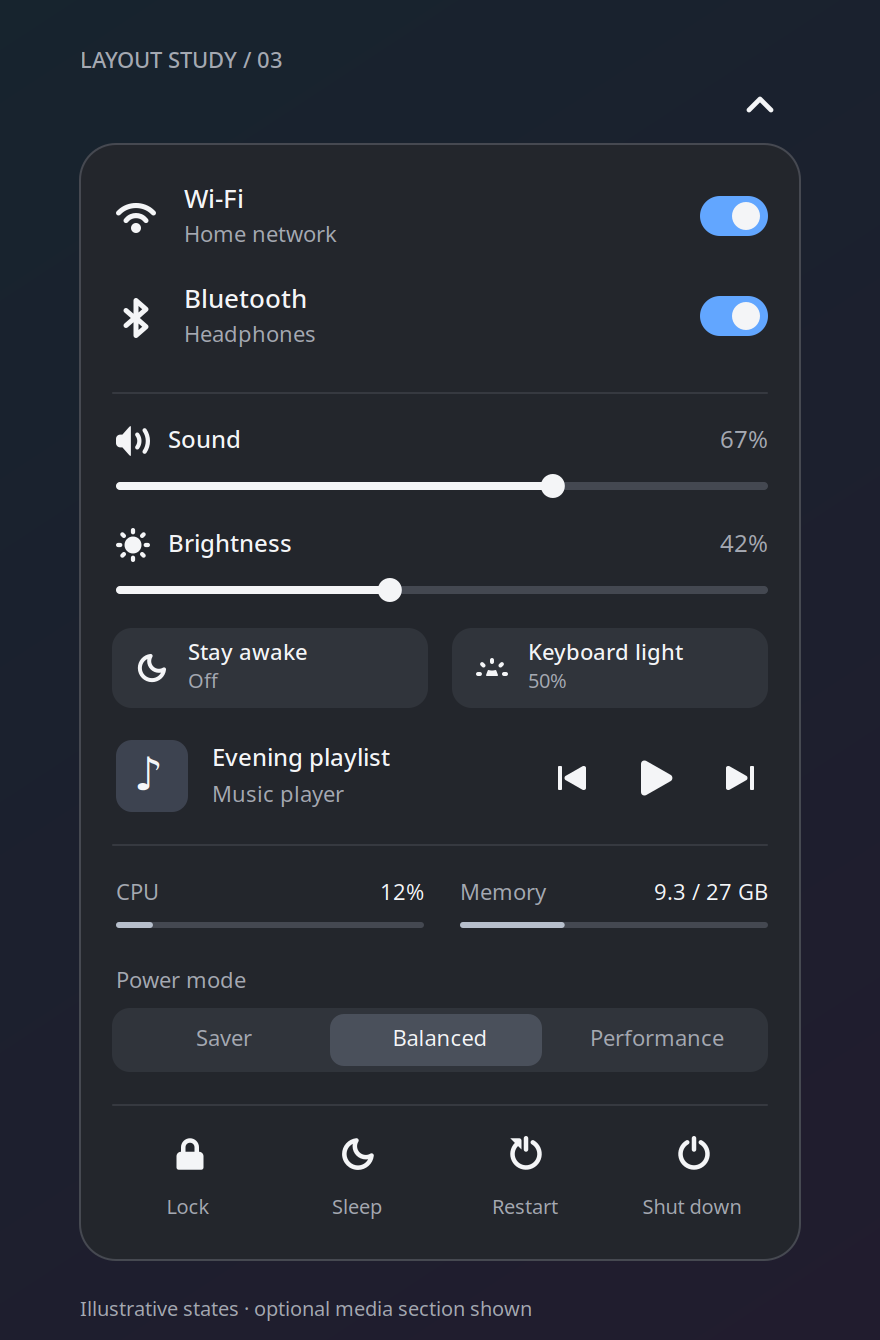
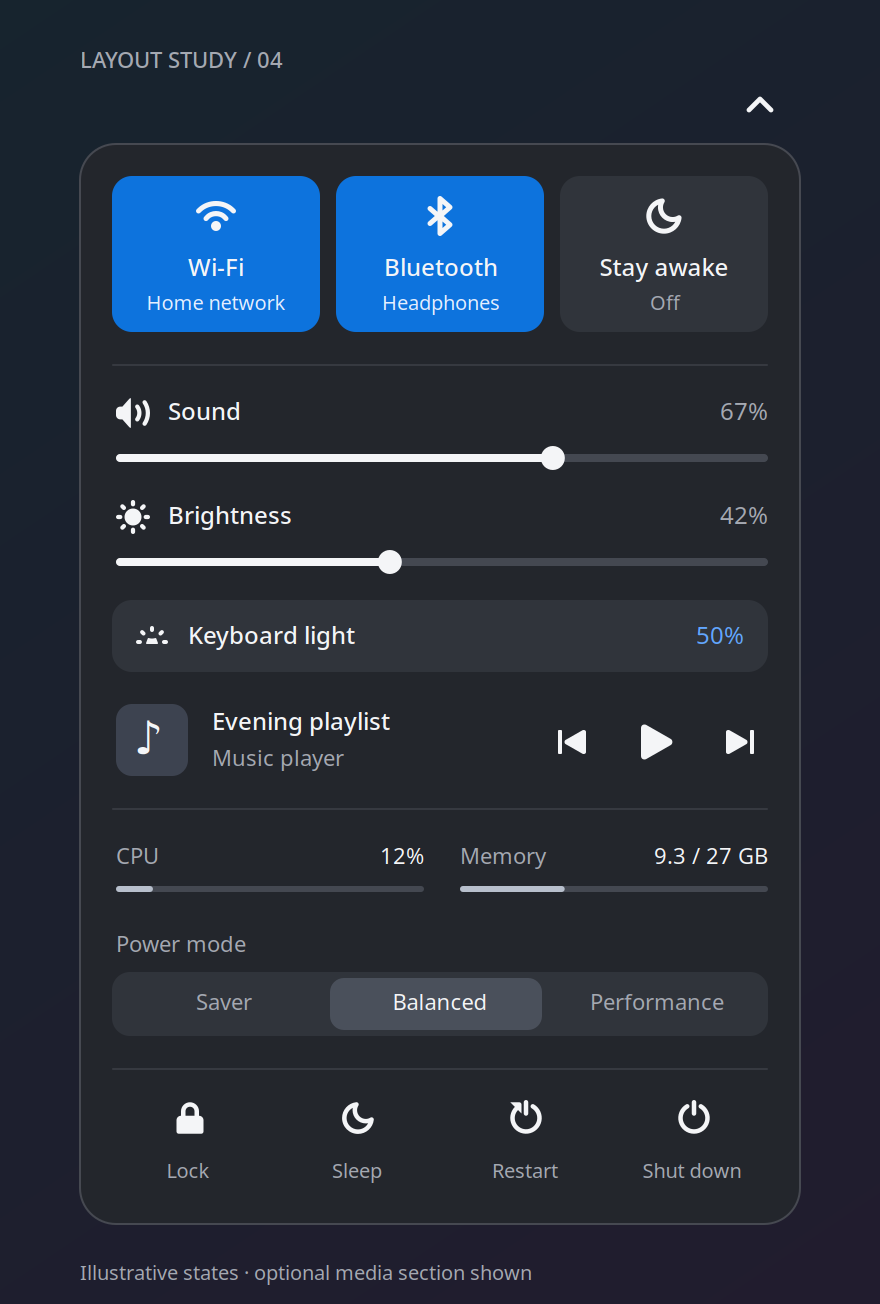
Use three quick buttons in control center study

diff --git a/design/control-center-studies/generate.py b/design/control-center-studies/generate.py
@@ -17,7 +17,7 @@ HERE = Path(__file__).resolve().parent
 ICON_DIR = Path("/usr/share/icons/Adwaita/symbolic")
 ICONS = {path.stem: path for path in ICON_DIR.rglob("*.svg")}
 SCALE = 2
-surface = cairo.ImageSurface(cairo.FORMAT_ARGB32, 440 * SCALE, 670 * SCALE)
+surface = cairo.ImageSurface(cairo.FORMAT_ARGB32, 440 * SCALE, 652 * SCALE)
 c = cairo.Context(surface)
 c.scale(SCALE, SCALE)
 WHITE, MUTED, BLUE = "f4f5f7", "a5a9b2", "62a6ff"
@@ -79,16 +79,13 @@ def divider(y):
     box(56, y, 328, 1, .5, "363940")
 
 
-def toggle(x, y, enabled=True):
-    box(x, y, 34, 20, 10, BLUE if enabled else "4a4e57")
-    box(x + (16 if enabled else 3), y+3, 14, 14, 7, WHITE)
-
-
-def connection(y, glyph, title, state, enabled=True):
-    icon(glyph, 58, y+11, 20)
-    text(title, 92, y+2, weight="Medium")
-    text(state, 92, y+21, 11, MUTED, width=240)
-    toggle(350, y+10, enabled)
+def quick_button(x, glyph, title, state, enabled):
+    box(x, 88, 104, 78, 10, "0d73dd" if enabled else "30343b")
+    icon(glyph, x+42, 98, 20)
+    text(title, x+8, 125, 12, weight="Medium", width=88,
+         align=Pango.Alignment.CENTER)
+    text(state, x+8, 144, 10, "e4efff" if enabled else MUTED, width=88,
+         align=Pango.Alignment.CENTER)
 
 
 def slider(y, glyph, label, value):
@@ -100,12 +97,12 @@ def slider(y, glyph, label, value):
     box(58 + 326*value/100 - 6, y+25, 12, 12, 6, WHITE)
 
 
-gradient = cairo.LinearGradient(0, 0, 440, 670)
+gradient = cairo.LinearGradient(0, 0, 440, 652)
 gradient.add_color_stop_rgb(0, .09, .14, .18)
 gradient.add_color_stop_rgb(1, .13, .11, .18)
 c.set_source(gradient)
 c.paint()
-text("LAYOUT STUDY / 03", 40, 22, 11, MUTED, "Medium")
+text("LAYOUT STUDY / 04", 40, 22, 11, MUTED, "Medium")
 # A static sample of the topbar anchor, showing the open state.
 color(WHITE)
 c.set_line_width(2.4)
@@ -116,54 +113,51 @@ c.line_to(380, 49.5)
 c.line_to(385.5, 55)
 c.stroke()
 
-box(40, 72, 360, 558, 18, "23262c", "464951")
+box(40, 72, 360, 540, 18, "23262c", "464951")
 
-connection(88, "network-wireless", "Wi-Fi", "Home network")
-connection(138, "bluetooth", "Bluetooth", "Headphones")
+quick_button(56, "network-wireless", "Wi-Fi", "Home network", True)
+quick_button(168, "bluetooth", "Bluetooth", "Headphones", True)
+quick_button(280, "weather-clear-night", "Stay awake", "Off", False)
 
-divider(196)
-slider(212, "audio-volume-high", "Sound", 67)
-slider(264, "display-brightness", "Brightness", 42)
+divider(182)
+slider(198, "audio-volume-high", "Sound", 67)
+slider(250, "display-brightness", "Brightness", 42)
 
-box(56, 314, 158, 40, 10, "30343b")
-box(226, 314, 158, 40, 10, "30343b")
-icon("weather-clear-night", 68, 326, 16)
-text("Stay awake", 94, 318, 11, weight="Medium")
-text("Off", 94, 333, 10, MUTED)
-icon("keyboard-brightness", 238, 326, 16)
-text("Keyboard light", 264, 318, 11, weight="Medium")
-text("50%", 264, 333, 10, MUTED)
+box(56, 300, 328, 36, 10, "30343b")
+icon("keyboard-brightness", 68, 310, 16)
+text("Keyboard light", 94, 309, 12, weight="Medium")
+text("50%", 324, 309, 12, BLUE, width=48, align=Pango.Alignment.RIGHT)
 
-box(58, 370, 36, 36, 8, "3d4350")
-text("♪", 67, 373, 23)
-text("Evening playlist", 106, 370, 12, weight="Medium", width=156)
-text("Music player", 106, 389, 11, MUTED, width=156)
-icon("media-skip-backward", 278, 381, 16)
-icon("media-playback-start", 318, 379, 20)
-icon("media-skip-forward", 362, 381, 16)
+box(58, 352, 36, 36, 8, "3d4350")
+text("♪", 67, 355, 23)
+text("Evening playlist", 106, 352, 12, weight="Medium", width=156)
+text("Music player", 106, 371, 11, MUTED, width=156)
+icon("media-skip-backward", 278, 363, 16)
+icon("media-playback-start", 318, 361, 20)
+icon("media-skip-forward", 362, 363, 16)
 
-divider(422)
+divider(404)
 for x, label, value, percent in [(58, "CPU", "12%", .12), (230, "Memory", "9.3 / 27 GB", .34)]:
-    text(label, x, 438, 11, MUTED)
-    text(value, x+54, 438, 11, width=100, align=Pango.Alignment.RIGHT)
-    box(x, 461, 154, 3, 1.5, "444851")
-    box(x, 461, 154*percent, 3, 1.5, "b7bfcc")
+    text(label, x, 420, 11, MUTED)
+    text(value, x+54, 420, 11, width=100, align=Pango.Alignment.RIGHT)
+    box(x, 443, 154, 3, 1.5, "444851")
+    box(x, 443, 154*percent, 3, 1.5, "b7bfcc")
 
-text("Power mode", 58, 482, 11, MUTED)
-box(56, 504, 328, 32, 9, "30343b")
-box(165, 507, 106, 26, 7, "4a505b")
+text("Power mode", 58, 464, 11, MUTED)
+box(56, 486, 328, 32, 9, "30343b")
+box(165, 489, 106, 26, 7, "4a505b")
 for x, label in [(58, "Saver"), (166, "Balanced"), (274, "Performance")]:
-    text(label, x, 511, 11, WHITE if label == "Balanced" else MUTED,
+    text(label, x, 493, 11, WHITE if label == "Balanced" else MUTED,
          width=108, align=Pango.Alignment.CENTER)
 
-divider(552)
+divider(534)
 for x, label, glyph in [(58, "Lock", "system-lock-screen"),
                          (142, "Sleep", "weather-clear-night"),
                          (226, "Restart", "system-reboot"),
                          (310, "Shut down", "system-shutdown")]:
-    icon(glyph, x+28, 568, 18)
-    text(label, x, 596, 10, MUTED, width=72, align=Pango.Alignment.CENTER)
+    icon(glyph, x+28, 550, 18)
+    text(label, x, 578, 10, MUTED, width=72, align=Pango.Alignment.CENTER)
 
-text("Illustrative states · optional media section shown", 40, 647, 10, MUTED)
+text("Illustrative states · optional media section shown", 40, 629, 10, MUTED)
 surface.write_to_png(str(HERE / "unified-panel.png"))
 print(HERE / "unified-panel.png")

diff --git a/design/control-center-studies/README.md b/design/control-center-studies/README.md
@@ -4,14 +4,15 @@
 names and media metadata are illustrative. Generate with `python3 generate.py`
 (PyGObject, Cairo, Pango and the installed Adwaita symbolic icon set).
 
-The proposal retains the current controls and menu icons. Connection rows replace
-the large blue tiles; small switches carry their on/off state. Utility buttons,
-sliders, optional media, power profiles and session actions share one surface with
+The proposal retains the current controls and menu icons. Wi-Fi, Bluetooth and Stay
+awake are three equal buttons in the top row, with the icon above the name and state.
+The entire button toggles its function; active buttons use the current blue fill.
+Sliders, keyboard light, optional media, power profiles and session actions share one surface with
 16 px outer padding, consistent text alignment and thin section separators. Power
 profiles use a quieter selected segment. No new navigation or actions are implied.
 
-The panel has no heading or branding. Sound and brightness sit above
-the secondary Stay awake / keyboard light controls. Keyboard light shows its actual
+The panel has no heading or branding. Sound and brightness sit directly below the
+top buttons, followed by a full-width keyboard light button showing its actual
 percentage (50% or 100%, plus Off), retaining the existing click-to-cycle interaction;
 the sample shows 50%. The player sits above CPU/memory, grouping passive system
 information with the power profiles below the everyday controls.
